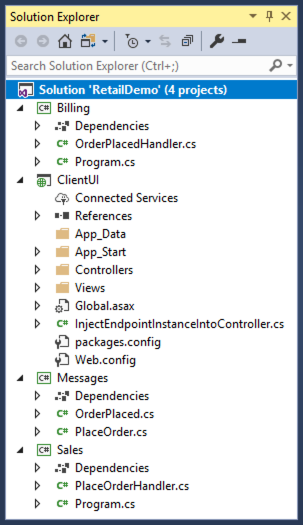
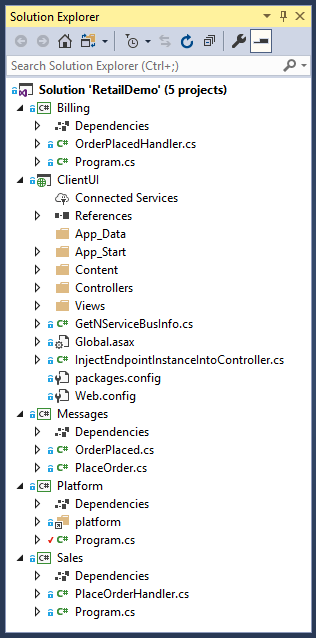
Updated the QuickStart tutorial text to support platform activities

Changed region(s): [[0.0, 0.0, 1.0, 1.0]]

diff --git a/tutorials/quickstart/Solution/Sales/PlaceOrderHandler.cs b/tutorials/quickstart/Solution/Sales/PlaceOrderHandler.cs
@@ -26,16 +26,18 @@ namespace Sales
             //}
             #endregion
 
+            #region ThrowFatalException
             // Uncomment to test throwing fatal exceptions
             //throw new Exception("BOOM");
+            #endregion
 
             var orderPlaced = new OrderPlaced
             {
                 OrderId = message.OrderId
             };
-            
+
             log.Info($"Publishing OrderPlaced, OrderId = {message.OrderId}");
-            
+
             return context.Publish(orderPlaced);
         }
     }

diff --git a/tutorials/quickstart/Solution/Platform/Program.cs b/tutorials/quickstart/Solution/Platform/Program.cs
@@ -1,10 +1,17 @@
 namespace Platform
 {
+    using System;
+
     class Program
     {
+        #region PlatformMain
+
         static void Main(string[] args)
         {
-            Particular.PlatformLauncher.Launch();
+            Console.Title = "Particular Service Platform Launcher";
+            //Particular.PlatformLauncher.Launch();
         }
+
+        #endregion
     }
 }

diff --git a/tutorials/quickstart/tutorial.md b/tutorials/quickstart/tutorial.md
@@ -30,7 +30,7 @@ To get started, download the solution appropriate for your Visual Studio version
 
 ## Project structure
 
-The solution contains four projects. The **ClientUI**, **Sales**, and **Billing** projects are [endpoints](/nservicebus/endpoints/) that communicate with each other using NServiceBus messages. The **ClientUI** endpoint is implemented as a web application and is an entry point in our system. The **Sales** and **Billing** endpoints, implemented as console applications, contain business logic related to processing and fulfilling orders. Each endpoint references the **Messages** assembly, which contains the definitions of messages as POCO class files.
+The solution contains five projects. The **ClientUI**, **Sales**, and **Billing** projects are [endpoints](/nservicebus/endpoints/) that communicate with each other using NServiceBus messages. The **ClientUI** endpoint is implemented as a web application and is an entry point in our system. The **Sales** and **Billing** endpoints, implemented as console applications, contain business logic related to processing and fulfilling orders. Each endpoint references the **Messages** assembly, which contains the definitions of messages as POCO class files. A little further into the tutorial, the **Platform** project will provide a demonstration of the Particular Service Platform, but at the beginning of the tutorial we'll leave its code commented out, and return to it later.
 
 ![Solution Explorer view](solution-explorer.png "width=240")
 
@@ -43,7 +43,7 @@ The solution mimics a real-life retail system, where [the command](/nservicebus/
 
 ## Running the solution
 
-The solution is configured to have [multiple startup projects](https://msdn.microsoft.com/en-us/library/ms165413.aspx), so when you run the solution it should open the web application and two console applications, one window for each messaging endpoint.
+The solution is configured to have [multiple startup projects](https://msdn.microsoft.com/en-us/library/ms165413.aspx), so when you run the solution it should open the web application and two console applications, one window for each messaging endpoint. (The Platform console app will also open briefly and then immediately close.)
 
 ![ClientUI Web Application](webapp-start.png)
 ![2 console applications, one for endpoint implemented as a console app](2-console-windows.png)
@@ -103,7 +103,7 @@ Let's simulate a transient failure in the **Sales** endpoint and see retries in 
 
 snippet: ThrowTransientException
 
-3. Start the solution without debugging (<kbd>Ctrl</kbd>+<kbd>F5</kbd>). This will make it easier to observe exceptions occurring without being interrupted by Visual Studio's Exception Assistant.
+3. Start the solution without debugging (<kbd>Ctrl</kbd>+<kbd>F5</kbd>). This will make it easier to observe exceptions occurring without being interrupted by Visual Studio's Exception Assistant dialog.
 4. In the **ClientUI** window, send one message at a time, and watch the **Sales** window.
 
 ![Transient exceptions](transient-exceptions.png)
@@ -123,8 +123,104 @@ NOTE: If you forgot to detach the debugger, you'll need to click the **Continue*
 
 Automatic retries allow us to avoid losing data or having our system left in an inconsistent state because of a random transient exception. We won't need to manually dig through the database to fix things anymore!
 
-Of course, there are other exceptions that may be harder to recover from than simple database deadlocks. NServiceBus contains more [recoverability tools](/nservicebus/recoverability/) to handle various types of failures and ensure that no message is ever lost.
+Of course, there are other exceptions that may be harder to recover from than simple database deadlocks. Let's take a look at what happens when a systemic failure occurs.
 
+
+## Systemic failures
+
+A systemic failure is one that is simply unrecoverable, no matter how many times we retry. Just plain old bugs. Most of the time these kinds of failure require a redeploy with new code in order to fix. But what happens to the messages when this happens?
+
+Let's cause the system to have a systemic failure, and then look at how we can use the Particular Service Platform tools to handle it.
+
+First, let's simulate a systemic failure in the **Sales** endpoint:
+
+1. In the **Sales** endpoint, locate and open the **PlaceOrderHandler.cs** file.
+2. Uncomment the code inside the **ThrowFatalException** region shown here. This will cause an exception to be thrown every single time the `PlaceOrder` message is processed:
+
+snippet: ThrowFatalException
+
+3. In order to stop Visual Studio complaining about unreachable code, you'll need to comment out all the code in the `Handle` method past the `throw` statement.
+
+Next, let's enable the Particular Service Platform tools, and then see what they do.
+
+1. In the **Platform** project, locate and open the **Program.cs** file.
+2. Uncomment the code inside the **PlatformMain** region shown here. This will cause the platform to launch when we start our project.
+
+snippet: PlatformMain
+
+With those two changes made, start the solution without debugging (<kbd>Ctrl</kdb>+<kbd>F5</kbd>). This will make it easier to observe the exceptions and retries without being interrupted by Visual Studio's Exception Assistant dialog.
+
+Along with the windows from before, two new windows will now launch. The first is the **Particular Service Platform Launcher** window, which looks like this:
+
+![Particular Service Platform Launcher console app](platform-launcher-console.png)
+
+The purpose of this app is to host different tools within a sandbox environment, just for this solution. If you read through the log, it's finding free ports for different services to use, creating folders, and other related tasks, before finally (it may take several seconds) it launches ServicePulse in a new browser window:
+
+![Service Pulse: Dashboard View](pulse-dashboard.png)
+
+From this screenshot we can see that ServicePulse is a tool that tracks the operational health of your system. It tracks **Hearbeats** from your messaging endpoints, ensuring that they are running and able to send messages. It tracks **Failed Messages** and allows you to retry them. It also supports **Custom Checks** allowing you to write code that checks the health of your external dependencies (such as connectivity to a web service or FTP server) so you can get a better idea of the overall health of your system.
+
+Another great feature of ServicePulse is the **Monitoring** view, which tracks performance statistics for all of your endpoints:
+
+![ServicePulse: Monitoring View](pulse-monitoring.png)
+
+For a more in-depth look at the monitoring capabilities, check out the [Monitoring Demo](/tutorials/monitoring-demo/), which includes a load simulator to create monitoring graphs that aren't flatlined at zero.
+
+For now, let's focus on the **Failed Messages** view. It's not much to look at right now (and that's good!) so let's generate a systemic failure:
+
+1. If you're able, undock the ServicePulse browser tab into a new window so you can better see what's going on.
+2. In the **ClientUI** window, send one message while watching the **Sales** window.
+
+Immediately, you'll see exception text flash past, culminating in an orange-colored WARN message:
+
+```
+WARN  NServiceBus.RecoverabilityExecutor Delayed Retry will reschedule message 'ea962f05-7d82-4be1-926a-a9de01749767' after a delay of 00:00:10 because of an exception:
+System.Exception: BOOM
+   at <long stack trace>
+```
+
+10 seconds later, text will flash past again, warning of a 20-second delay. 20 seconds later, the text will flash again, warning of a 30-second delay. And finally, 30 seconds after that, text will flash by again, finally ending in red ERROR message:
+
+```
+ERROR NServiceBus.RecoverabilityExecutor Moving message 'ea962f05-7d82-4be1-926a-a9de01749767' to the error queue 'error' because processing failed due to an exception:
+System.Exception: BOOM
+   at <long stack trace>
+```
+
+Once the red stack trace appears, check out the **Failed Messages** view in the **ServicePulse** window:
+
+![ServicePulse: Failed Messages View](pulse-failed-messages.png)
+
+So what happened here? The message couldn't be successfully processed during an immediate round of retries, so it delayed the message for 10 seconds to try again. After that, it could still not be processed successfully, so it delayed the message for an additional 20 seconds, and then 30 seconds, before giving up all hope and transferring the message to an **error queue**, a holding location for poison messages so that other messages behind it can still get processed successfully.
+
+Once the message enters the error queue, ServicePulse takes over, displaying all failed messages grouped by exception type and the location where it's thrown from.
+
+If you click anywhere on the exception group, it will take you to the list of exceptions within that group. This is not too interesting, since we currently only have one, but if you click again on the individual exception, you will get a rich exception detail view:
+
+![ServicePulse: Exception Details](pulse-exception-details.png)
+
+No need to go digging through log files to find out what went wrong. ServicePulse provides the exception's stack trace, message headers, and message body right here.
+
+Armed with this information, it should be much easier to track down and fix our bug, so let's do that:
+
+1. Because we ran without attaching the debugger, we need to close both browser windows and all console applications.
+1. In the **Sales** endpoint, locate and open the **PlaceOrderHandler.cs** file.
+1. Comment out the `throw` statement, and uncomment all the code below the **ThrowFatalException** region, returning the code to its original working state.
+1. Start the solution again. It won't be throwing any exceptions so attaching the debugger is fine this time.
+2. Once the **ServicePulse** window launches, navigate to the **Failed Messages** view.
+
+Now our system has been fixed, and we can give that failed message another chance.
+
+1. Move the **Sales** and **Billing** windows around so you can see waht happens when you retry the message.
+2. In the **ServicePulse** window, click the **Request Retry** link.
+3. In the confirmation dialog, click the **Yes** button, and remember to watch the **Sales** and **Billing** windows.
+4. It may take several seconds to enqueue the batch, but eventually you will see the familiar log messages in **Sales** and **Billing**, showing the message being processed successfully as if nothing bad ever happened.
+
+This is a powerful feature. Many systemic failures are the result of bad deployments. A new version is rolled out with a bug, and errors suddenly start appearing that ultimately result in lost data.
+
+With a message-based system, no data is ever lost, because those failures result in messages being sent to an error queue, not lost to the ether. After a deploy, you can watch ServicePulse, and if messages start to pile up in the error queue, you can revert to the previous known good configuration while you diagnose the problem.
+
+The visual tools in ServicePulse provide a quick way to get to the root cause of a problem and develop a fix. Once deployed, all affected messages (even into the thousands) can be replayed with just a few mouse clicks.
 
 ## Extending the system
 
@@ -144,9 +240,9 @@ To start, in the **Solution Explorer** window, right-click the **RetailDemo** so
 ![New Project Dialog](new-project.png "width=680")
 
 1. In the **Add New Project** dialog, be sure to select at least **.NET Framework 4.6.1** in the dropdown menu at the top of the window for access to the `Task.CompletedTask` API.
-1. Select a new **Console App (.NET Framework)** project (or just **Console Application**).
-1. Name the project **Shipping**.
-1. Click **OK** to create the project and add it to the solution.
+2. Select a new **Console App (.NET Framework)** project (or just **Console Application**).
+3. Name the project **Shipping**.
+4. Click **OK** to create the project and add it to the solution.
 
 {{NOTE:
 **ProTip:** The existing projects in this solution are using the newer, leaner, .NET Core style project files, but the current Visual Studio tooling doesn't make it very easy to do the same for the **Shipping** project. If you like, you can create a project of type **Console App (.NET Core)** and then manually edit the **Shipping.csproj** file to change the `TargetFramework` value from `netcoreapp2.0` to `net461`.
@@ -225,6 +321,8 @@ In this tutorial, we explored the basics of how a messaging system using NServic
 We learned that asynchronous messaging failures in one part of a system can be isolated and prevent the entire system failure. That level of resilience and reliability is not easy to achieve with traditional REST-based web services.
 
 We saw how automatic retries provide protection from transient failures like database deadlocks. If we implement a multi-step process as a series of message handlers, then each step will be executed independently and can be automatically retried in case of failures. This means that a stray exception won't abort an entire process, leaving the system in an inconsistent state.
+
+We saw how the tooling in the Particular Service Platform makes running a distributed system much easier. ServicePulse gives us critical insights into the health of the system, and allows us to diagnose and fix even systemic failures. We don't have to worry about data loss anymore–once we redeploy our system, we can replay failed messages in batches as if the error had never occurred.
 
 We also implemented an additional event subscriber, showing how to decouple independent bits of business logic from each other. The ability to publish one event and then implement resulting steps in separate message handlers makes the system much easier to maintain and evolve.
 
